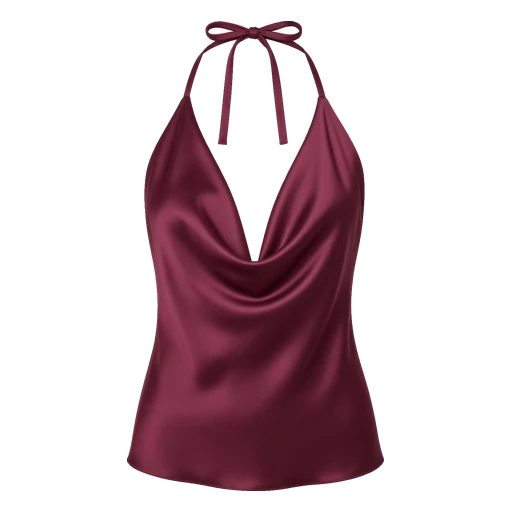
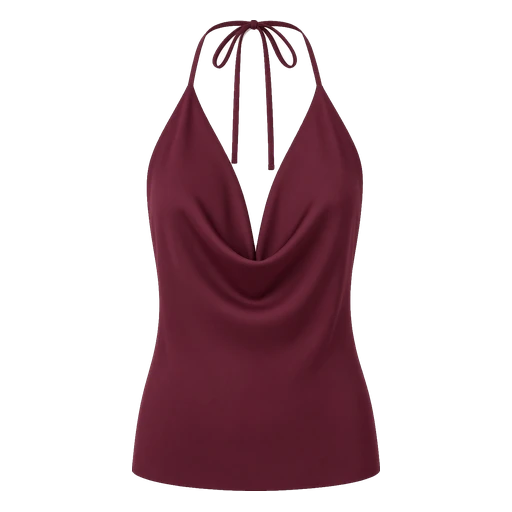
guarda-roupa: 210 pecas dos prints, joias e chapeus separados, sub-filtros

diff --git a/js/data.js b/js/data.js
@@ -2,10 +2,11 @@
 window.CATALOGO = [
 ["item_114","Blusa de girassóis","top","alça","V"],
 ["p085","Blusa de tule bordada preta","top","alça","VOP"],
-["new_blusa_vinho","Blusa frente única vinho","top","alça","VOP",2,"top de amarrar no pescoço com tiras finas, decote drapeado, costas abertas, tecido duna fosco vinho"],
+["new_blusa_vinho","Blusa frente única vinho","top","alça","VOP",2,"top de amarrar no pescoço com tiras finas, decote drapeado, costas abertas, tecido duna fosco sem brilho, vinho"],
 ["p005","Blusa preta decote V manga longa","top","alça","OIP"],
 ["p025","Blusa preta decote V manga longa","top","alça","OIP"],
 ["p072","Blusa preta decote V manga longa","top","alça","OIP"],
+["new_body_alca_branco","Body de alça branco","top","alça","VOIP",2,"body de alcinha fina branco, decote reto, malha lisa fosca"],
 ["new_body_alca_marrom","Body de alça marrom","top","alça","VOIP",2,"body de alcinha fina marrom chocolate, decote reto, malha lisa fosca"],
 ["new_body_alca_preto","Body de alça preto","top","alça","VOIP",2,"body de alcinha fina preto, decote reto, malha lisa fosca"],
 ["new_body_regata_branco","Body regata branco","top","alça","VOIP",2,"body regata branco liso, gola redonda alta, cava alta tipo nadador, malha fosca"],
@@ -78,6 +79,7 @@ window.CATALOGO = [
 ["new_golaalta_violeta","Gola alta violeta","top","manga longa","OIP",2,"malha lisa violeta, gola alta, manga longa"],
 ["p058","Suéter branco de tricô","top","manga longa","OI"],
 ["p049","Top branco com laço","top","manga longa","VP"],
+["new_trico_golav_preto","Tricô gola V preto","top","manga longa","OI",2,"suéter de tricô preto canelado, decote V profundo e cavado, manga longa, caimento solto"],
 ["p114","Calça bege de alfaiataria","bottom","calça","VOP"],
 ["p053","Calça branca de alfaiataria","bottom","calça","VP"],
 ["p059","Calça branca pantalona","bottom","calça","VP"],
@@ -113,6 +115,7 @@ window.CATALOGO = [
 ["p090","Short jeans claro com cinto","bottom","short","VP"],
 ["p064","Short jeans escuro","bottom","short","VP"],
 ["p055","Short marrom canelado","bottom","short","VP"],
+["new_short_marrom_coracao","Short marrom com corações","bottom","short","VOP",2,"short jeans marrom escuro cintura alta, barra dobrada, bordado de corações vazados em linha bege no bolso da frente"],
 ["p001","Short preto de alfaiataria","bottom","short","VP"],
 ["p006","Short preto de alfaiataria","bottom","short","VP"],
 ["p008","Short preto de alfaiataria","bottom","short","VP"],
@@ -164,11 +167,14 @@ window.CATALOGO = [
 ["p060","Chinelo preto","calcado","chinelo","V"],
 ["p096","Chinelo preto com brilho","calcado","chinelo","V"],
 ["p150","Rasteira dourada","calcado","sandália","VP"],
+["new_rasteira_branca","Rasteirinha branca","calcado","sandália","VP",2,"rasteirinha slide de couro off-white com tira larga recortada em H, bico quadrado, sem salto"],
+["new_rasteira_marrom_medalhao","Rasteirinha marrom com medalhões","calcado","sandália","VP",2,"rasteirinha de dedo de couro marrom com palmilha preta e medalhões redondos prateados na tira da frente, tirinha no tornozelo"],
 ["p119","Sandália branca salto bloco","calcado","sandália","VP"],
 ["p087","Sandália gladiadora preta","calcado","sandália","VP"],
 ["p157","Sandália nude com glitter","calcado","sandália","VP"],
 ["p158","Sandália pink salto fino","calcado","sandália","VP"],
 ["p039","Mocassim preto com fivela","calcado","sapato","OIP"],
+["new_sapatilha_slingback","Sapatilha slingback off-white","calcado","sapato","VOP",2,"sapatilha bico fino off-white, aberta atrás com tirinha no calcanhar e fivela dourada, salto baixo"],
 ["p078","Tênis branco","calcado","tênis","VOIP"],
 ["p061","Tênis branco chunky","calcado","tênis","VOIP"],
 ["p032","Tênis preto esportivo","calcado","tênis","VOIP"],
@@ -193,7 +199,9 @@ window.CATALOGO = [
 ["p122","Lenço vermelho de Roma","acessorio","lenço","OI"],
 ["p215","Óculos de grau dourado","acessorio","óculos","VOIP"],
 ["p112","Óculos gatinho bege","acessorio","óculos","VP"],
+["new_oculos_gatinho_preto","Óculos gatinho preto","acessorio","óculos","VP",2,"óculos de sol gatinho de acetato preto com lente escura"],
 ["p182","Óculos redondo dourado","acessorio","óculos","VOP"],
+["new_oculos_redondo_dourado","Óculos redondo dourado","acessorio","óculos","VOP",2,"óculos de sol redondo com armação dourada fina e lente marrom degradê"],
 ["p144","Argolas douradas","joia","brinco","VOIP"],
 ["p184","Colar corrente grossa","joia","colar","VOIP"],
 ["p190","Colar corrente grossa","joia","colar","VOIP"],

diff --git a/index.html b/index.html
@@ -10,7 +10,7 @@
 <link rel="preconnect" href="https://fonts.googleapis.com">
 <link rel="preconnect" href="https://fonts.gstatic.com" crossorigin>
 <link rel="stylesheet" href="https://fonts.googleapis.com/css2?family=Poppins:wght@400;500;600;700&display=swap">
-<link rel="stylesheet" href="css/app.css">
+<link rel="stylesheet" href="css/app.css?v=1790127525">
 </head>
 <body>
 
@@ -19,7 +19,7 @@
     <div class="top-in">
       <div class="brand">
         <h1 class="d1">Guarda-<br>Roupa</h1>
-        <span class="sticker" id="count">203 peças</span>
+        <span class="sticker" id="count">211 peças</span>
       </div>
       <div class="top-acts">
         <button class="sq" id="btnAdd" title="Adicionar peça" aria-label="Adicionar peça">
@@ -66,8 +66,8 @@
 <div id="modalRoot"></div>
 
 <script src="https://js.puter.com/v2/"></script>
-<script src="js/avatar.js"></script>
-<script src="js/data.js"></script>
-<script src="js/app.js"></script>
+<script src="js/avatar.js?v=1790127525"></script>
+<script src="js/data.js?v=1790127525"></script>
+<script src="js/app.js?v=1790127525"></script>
 </body>
 </html>
